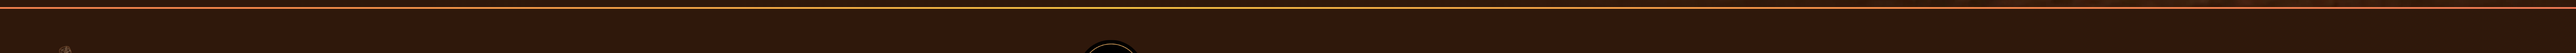
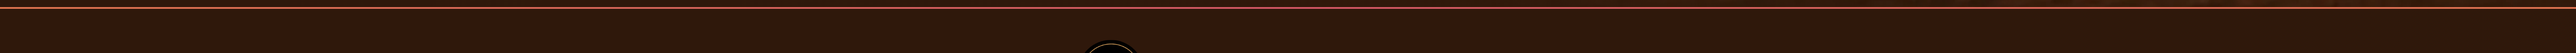
fix(JIA-2026-09-20-41): checkpoint 3 — el flujo de la regla corre de izquierda a derecha, al 90 % de opacidad, y el bucle cierra exacto
Tres cosas, a petición del promotor y una tercera que aparece al medir la segunda:

1. Opacidad del degradado a 0,9. Los tonos se apagan lo justo sobre la tinta del pie
   (el extremo izquierdo del fotograma A pasa de #f1814e a #de734e).

2. El flujo va ahora de izquierda a derecha. Iba al revés: con un fondo más ancho que
   su caja, subir `background-position` desplaza la imagen hacia la IZQUIERDA, así que
   los colores corrían de derecha a izquierda. Los keyframes ahora cuentan hacia atrás,
   de 200 % a 0 %, y la imagen viaja hacia la derecha. El eje del degradado sigue siendo
   `90deg`, que es el horizontal en CSS (0deg apunta arriba y 180deg abajo).

3. `background-size` de 220 % a 200 %. Al comprobar el sentido salió que el 220 % que
   recomienda el patrón del kit no cierra el bucle: una `background-position` en
   porcentaje desplaza la imagen `posición x (contenedor - imagen)`, de modo que recorrer
   0-220 % con una imagen del 220 % mueve 264 % del ancho cuando el patrón se repite cada
   220 % — 1,2 baldosas, con salto al reiniciar. Con 200 % el recorrido es de exactamente
   una baldosa y el bucle cierra sobre sí mismo.

Verificación determinista (evidencia `evidence/pos-*.png`): fijando la
`background-position` sin animación, el pico dorado cae en el 100 % del ancho a 200 %,
fuera de cuadro a 150 %, en el 0 % a 100 %, en el 50 % a 50 % y en el 100 % a 0 %. Es
decir, recorriendo 200 % → 0 % el oro entra por la izquierda, cruza el centro y sale por
[…]

Changed region(s): [[0.0625, 0.125, 0.8438, 0.175], [0.0, 0.925, 0.0312, 0.975]]

diff --git a/components/site/SiteFooter.module.css b/components/site/SiteFooter.module.css
@@ -200,19 +200,25 @@
   pointer-events: none;
   opacity: 0;
   transition: opacity 260ms ease;
-  /* Symmetric (rose - gold - rose) so the loop restarts without a snap. */
+  /* Symmetric (rose - gold - rose) so consecutive tiles join on the same colour and the loop never snaps.
+     90deg is the horizontal axis in CSS (0deg points up, 180deg down), so the colour runs left to right.
+     The width has to be exactly 200%: a percentage background-position slides the image by
+     position x (container - image), so covering the whole 0-200% range moves it by exactly one tile and
+     the loop closes on itself. The kit's 220% does not close - it travels 1.2 tiles and jumps on restart. */
   background-image: linear-gradient(90deg, var(--sds-rose), var(--sds-orange) 35%, var(--sds-gold) 50%, var(--sds-orange) 65%, var(--sds-rose));
-  background-size: 220% 100%;
-  background-position: 0% 50%;
+  background-size: 200% 100%;
+  background-position: 200% 50%;
 }
 .bottom:has(.bottomInner:hover)::before,
 .bottom:has(.bottomInner:focus-within)::before {
-  opacity: 1;
+  opacity: 0.9;
   animation: studio-rule-flow var(--sds-flow-speed) linear infinite;
 }
+/* Counting down, not up: a falling background-position slides the image to the right, so the colours
+   flow left to right. Counting up would run them the other way. */
 @keyframes studio-rule-flow {
-  from { background-position: 0% 50%; }
-  to { background-position: 220% 50%; }
+  from { background-position: 200% 50%; }
+  to { background-position: 0% 50%; }
 }
 /* Reduced motion: the rule still lights up, it just does not travel. */
 @media (prefers-reduced-motion: reduce) {
